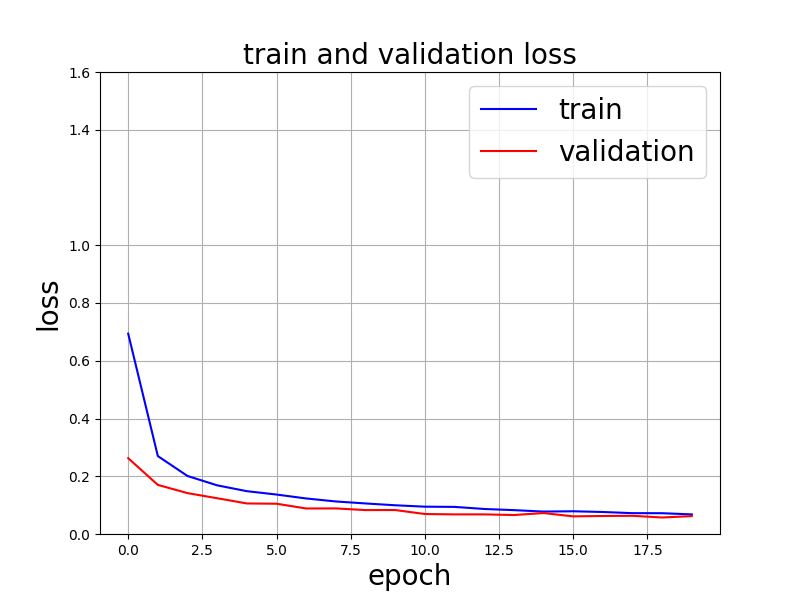
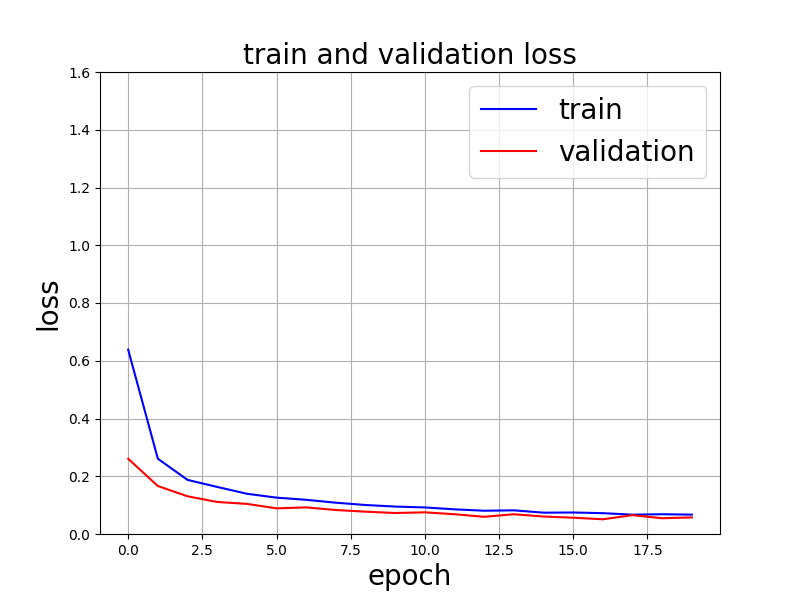
実験17

Changed region(s): [[0.1875, 0.72, 0.875, 0.87], [0.1562, 0.57, 0.1875, 0.72], [0.0938, 0.3, 0.125, 0.33]]

diff --git a/main.py b/main.py
@@ -48,7 +48,7 @@ def train(epochs):
     print(f"epoch: {epochs + 1}")
     print(f"train_loss: {train_loss / len(dataloader1)}")
     print(f"train_accuracy: {train_accuracy / len(dataloader1)}")
-    with open('./result/data16_train.csv', 'a') as f:
+    with open('./result/data17_train.csv', 'a') as f:
             f.write('{:<3d},{:<3f},{:<3f}\n'.format(epochs+1,train_loss / len(dataloader1),train_accuracy / len(dataloader1)))
     train_loss = train_loss / len(dataloader1)
     train_accuracy = train_accuracy / len(dataloader1)
@@ -77,7 +77,7 @@ def val(epochs):
     print(f"epoch: {epochs + 1}")
     print(f"Validation loss: {val_loss / len(dataloader2)}")
     print(f"Validation accuracy: {val_accuracy / len(dataloader2)}")
-    with open('./result/data16_val.csv', 'a') as f:
+    with open('./result/data17_val.csv', 'a') as f:
             f.write('{:<3d},{:<3f},{:<3f}\n'.format(epochs+1,val_loss / len(dataloader2),val_accuracy / len(dataloader2)))
     val_loss = val_loss / len(dataloader2)
     val_accuracy = val_accuracy / len(dataloader2)
@@ -104,7 +104,7 @@ def run():
     plt.xlabel('Predict class', fontsize=13)
     plt.ylabel('True class', fontsize=13)
     plt.title('Confusion Matrix', fontsize=18)
-    plt.savefig('./result/confusion_matrix_16.png')
+    plt.savefig('./result/confusion_matrix_17.png')
     #lossグラフ作成
     fig, ax = plt.subplots(figsize=(8, 6))
     ax.plot(range(len(train_loss_list)), train_loss_list, c='b', label='train')
@@ -116,7 +116,7 @@ def run():
     ax.grid()
     ax.legend(fontsize='20')
     plt.show()
-    plt.savefig('./result/loss_graph_16.png')
+    plt.savefig('./result/loss_graph_17.png')
      #accuracyグラフ作成
     fig, ax = plt.subplots(figsize=(8, 6))
     ax.plot(range(len(train_accuracy_list)), train_accuracy_list, c='b', label='train')
@@ -128,7 +128,7 @@ def run():
     ax.grid()
     ax.legend(fontsize='20')
     plt.show()
-    plt.savefig('./result/accuracy_graph_16.png')
+    plt.savefig('./result/accuracy_graph_17.png')
     #間違えた数字の可視化
     fig = plt.figure(figsize=(20,5))
     data_block = torch.cat(data_list,dim=0)
@@ -139,7 +139,7 @@ def run():
         ax.axis('off')
         ax.set_title(f'true:{true_list[idx]} pred:{preds_list[idx]}')
         ax.imshow(data_block[idx,0])
-        plt.savefig('./result/misspreddata_16')
+        plt.savefig('./result/misspreddata_17')
 
 if __name__ == "__main__":
     run()

diff --git a/dataset/mnist.py b/dataset/mnist.py
@@ -6,7 +6,7 @@ from torchvision import transforms
 def get_train_dataloader(root: str, batch_size: int=64):
     transform = transforms.Compose([
         transforms.ToTensor(),
-        transforms.RandomRotation(degrees=90)
+        transforms.RandomRotation(degrees=180)
     ])
 
     train_dataset = MNIST(
@@ -27,7 +27,7 @@ def get_train_dataloader(root: str, batch_size: int=64):
 def get_test_dataloader(root: str, batch_size: int=64):
     transform = transforms.Compose([
         transforms.ToTensor(),
-        transforms.RandomRotation(degrees=90)
+        transforms.RandomRotation(degrees=180)
     ])
 
     test_dataset = MNIST(
